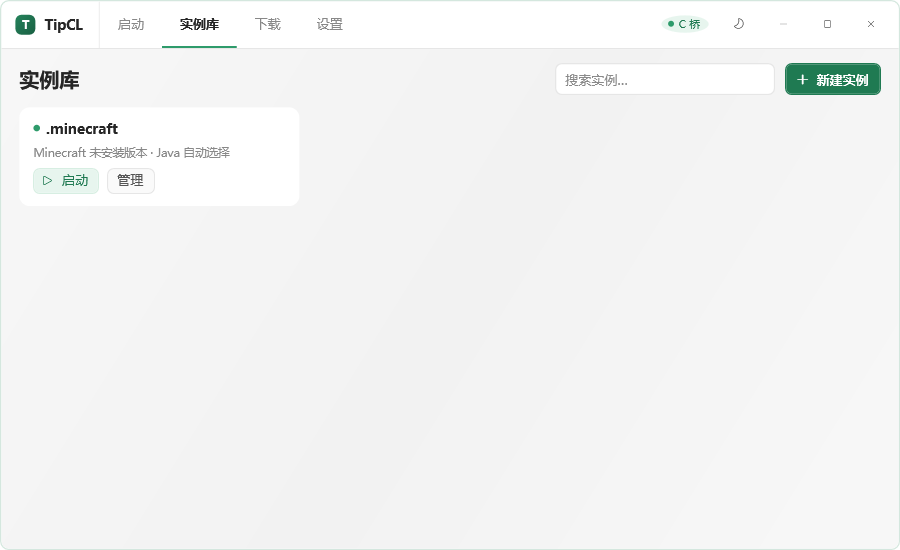
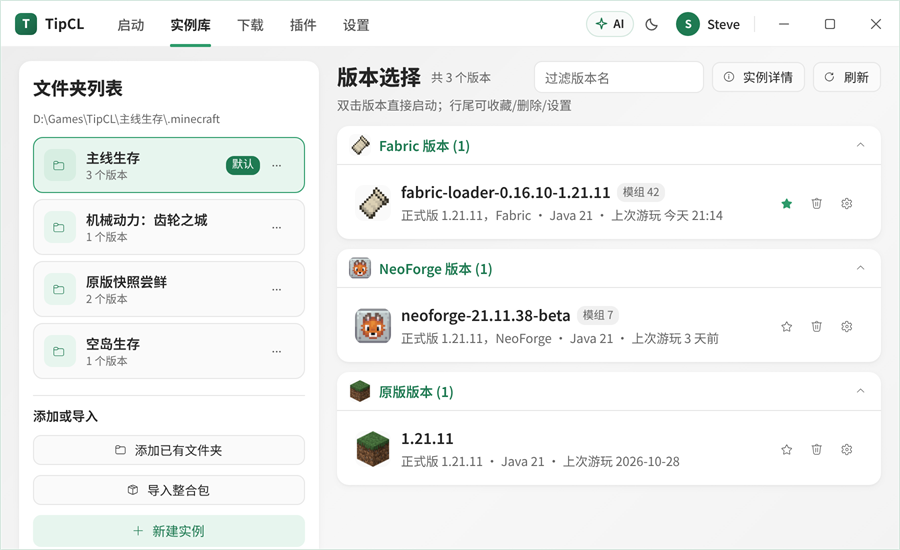
文档:重拍界面预览截图(补上下载/插件页),记清 ui-audit 存档约定
- windos/docs/ui-audit/hero/ 整组换成当前 5 页签界面的实拍(7 张:启动浅色 / 深色、实例库、下载、插件、设置、实例切换浮层)
- README 界面预览改成 3x2 表格,补上下载与插件两页;首图 launch-light.png 保留 1280 宽,以适配 640 宽显示时的清晰度
- windos/docs/ui-audit/README.md 记录 hero/ 的固定文件名与尺寸约定,并把 launch/、sheet/ 标注为 v1.0 历史存档

diff --git a/windos/docs/ui-audit/README.md b/windos/docs/ui-audit/README.md
@@ -1,0 +1,29 @@
+# 界面截图存档(docs/ui-audit)
+
+本目录是界面审计与交付验收时的整窗截图。**写文档 / 发版说明要引用界面图时,只取 `hero/` 那一组。**
+
+| 目录 | 内容 | 状态 |
+|---|---|---|
+| `hero/` | 交付用的整窗截图:启动页(浅色 / 深色)、实例库、下载、设置、插件、实例切换浮层 | **当前界面**,可直接引用 |
+| `launch/` | v1.0 界面的启动页审计截图(左侧栏那一版) | 历史存档,**不代表当前界面**,别拿去做文档 |
+| `sheet/` | v1.0 设计规范样张页(明 / 暗各一张) | 历史存档,**不代表当前界面** |
+
+截图怎么来的:用 [`tools/shot-window.ps1`](../../tools/shot-window.ps1)(启动 exe → 等窗口出现 → 截窗口矩形)。
+界面改动后请重拍 `hero/`,并保持文件名不变 —— README 与发版说明都按这些文件名引用。
+
+## `hero/` 的 7 张固定文件名
+
+README 与发版说明都按下面的文件名引用,重拍时**不要改名**:
+
+| 文件 | 页面 |
+|---|---|
+| `launch-light.png` | 启动页,浅色主题(README 首图,按 640 宽显示,原图 1280×782) |
+| `launch-dark.png` | 启动页,深色主题 |
+| `pop-dark.png` | 启动页,深色主题 + 实例切换浮层 |
+| `library-light.png` | 实例库(左侧文件夹列表 + 右侧版本选择) |
+| `download-light.png` | 下载(原版 / Mod / 整合包 / 数据包 …) |
+| `plugins-light.png` | 插件(已安装 / 市场) |
+| `settings-light.png` | 设置 · 通用 |
+
+除 `launch-light.png` 是 1280×782 外,其余都是 900×550;文件名里的 `light` / `dark` 是主题。
+拍摄时窗口里只留启动器本体(含自绘标题栏的 5 个页签:启动 / 实例库 / 下载 / 插件 / 设置),不要桌面和任务栏。

diff --git a/README.md b/README.md
@@ -35,9 +35,11 @@
 <img src="windos/docs/ui-audit/hero/launch-light.png" width="640" alt="启动页（浅色主题）" />
 </div>
 
-| 启动（深色主题 + 实例切换） | 实例库 | 设置 |
+| 下载 | 实例库 | 插件 |
 |:--:|:--:|:--:|
-| <img src="windos/docs/ui-audit/hero/pop-dark.png" width="250" /> | <img src="windos/docs/ui-audit/hero/library-light.png" width="250" /> | <img src="windos/docs/ui-audit/hero/settings-light.png" width="250" /> |
+| <img src="windos/docs/ui-audit/hero/download-light.png" width="250" /> | <img src="windos/docs/ui-audit/hero/library-light.png" width="250" /> | <img src="windos/docs/ui-audit/hero/plugins-light.png" width="250" /> |
+| **设置** | **启动(深色主题)** | **启动(深色主题 + 实例切换浮层)** |
+| <img src="windos/docs/ui-audit/hero/settings-light.png" width="250" /> | <img src="windos/docs/ui-audit/hero/launch-dark.png" width="250" /> | <img src="windos/docs/ui-audit/hero/pop-dark.png" width="250" /> |
 
 > 以上是浅色 / 深色主题下的实际界面，原图在 `windos/docs/ui-audit/hero/`。
 
